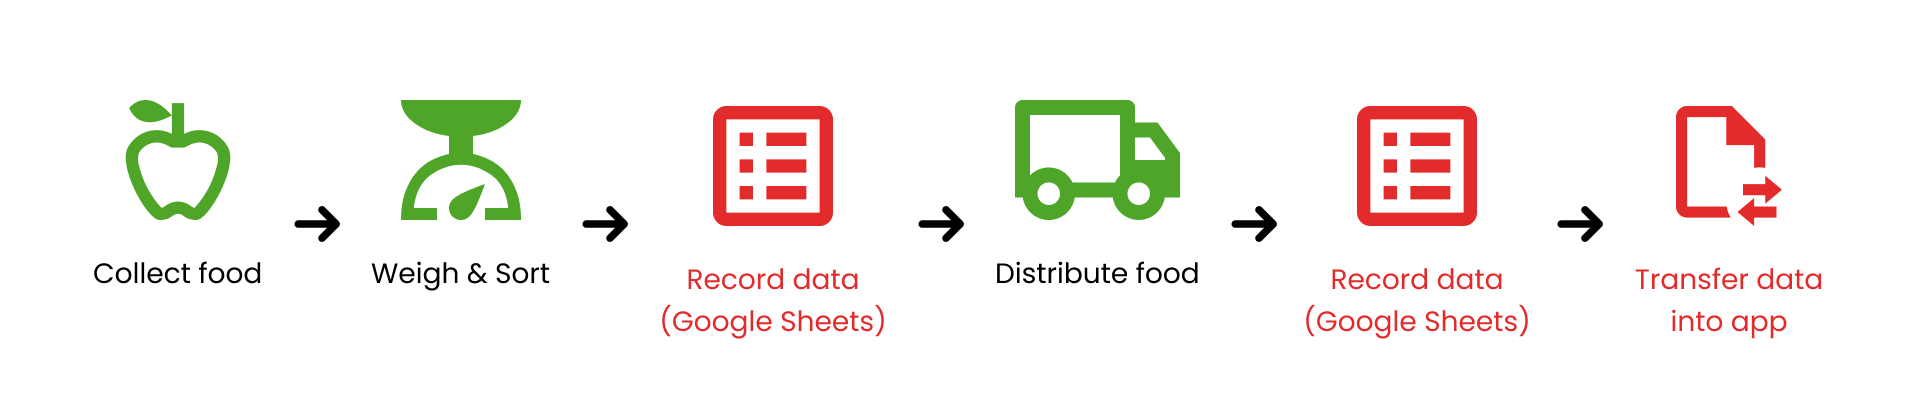
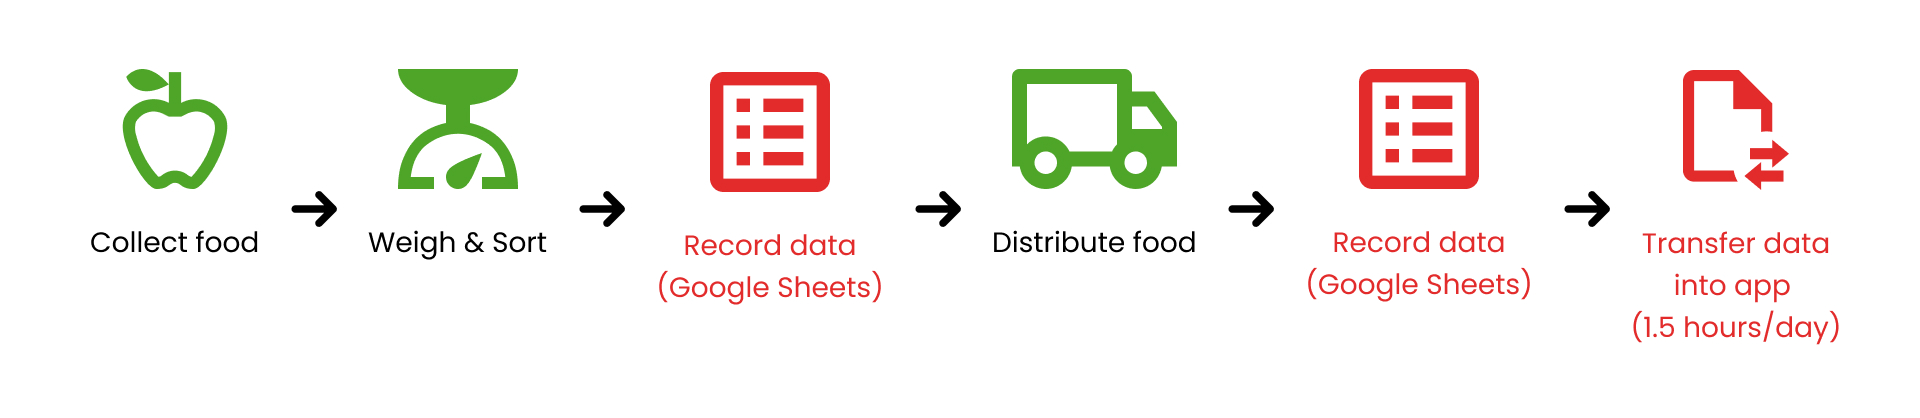
fix SE case study

diff --git a/project-sharing-excess.html b/project-sharing-excess.html
@@ -61,7 +61,7 @@
                     addressing the issue of food insecurity in the United States - to streamline their 
                     process of working with input and output data in the warehouse, which significantly shortened 
                     the process, minimized human errors, and increased workers' productivity. </p>
-                <div id="prj-summary">
+                <div class="prj-summary">
                     <div>
                         <h3> Project </h3>
                         <p> Internship </p>
@@ -72,11 +72,34 @@
                     </div>
                     <div>
                         <h3> My role </h3>
-                        <p> UX Designer <br> UX Researcher </p>
+                        <p class="margin-bot-05">UX Designer: Ideate design solutions</p>
+                        <p>UX Researcher: Build research plan, Conduct usability tests</p>
                     </div>
                     <div>
                         <h3> Team </h3>
                         <p> Quinn - UX Designer <br> Shash - Developer <br> Victoria - Product Manager</p>
+                    </div>
+                </div>
+                <hr>
+                <div>
+                    <h3 class="intro-impact"> Impact </h3>
+                    <div class="prj-summary top-impact">
+                        <div class="intro-impact">
+                            <p class="big-number intro-impact"><span class="cross-text"> 1.5 hours</span> <br>&rArr; 0 hour</p>
+                            <p class="impact-text"> of transfering data between 2 platforms. </p>
+                        </div>
+                        <div class="intro-impact">
+                            <p class="big-number intro-impact"><span class="cross-text"> 1-2 minutes</span><br> &rArr; 30 seconds</p>
+                            <p class="impact-text"> of creating one Entry/Allocation form. </p>
+                        </div>
+                        <div class="intro-impact">
+                            <p class="big-number intro-impact"> 75%</p>
+                            <p class="impact-text"> reduction of human error and data inaccuracy.</p>
+                        </div>
+                        <div class="intro-impact">
+                            <p class="big-number intro-impact"> 60%</p>
+                            <p class="impact-text"> reduction of food waste inside the warehouse. </p>
+                        </div>
                     </div>
                 </div>
                 <figure>
@@ -160,11 +183,6 @@
                     <img class="width100" src="portfolio-assets/case-study-se-app/artifacts/current-user-process-updated.jpg" title="Workers' original work process" alt="Workers' original work process">
                     <figcaption> Workers' original work process</figcaption>
                 </figure>
-                <p class="margin-top-4rem"> In an ideal world, Tate - one of the main Food Sourcing Associates - hoped to get rid of 1.5 mind-numbing hours of moving data between 2 platforms, and use the SE app right in the warehouse. </p>
-                <figure>
-                    <img class="width100" src="portfolio-assets/case-study-se-app/artifacts/ideal-user-process-updated.jpg" title="Workers' ideal work process" alt="Workers' ideal work process">
-                    <figcaption> Workers' ideal work process</figcaption>
-                </figure>
             </div>
 
             <div class="callout se-callout">
@@ -175,8 +193,8 @@
             </div>
                 
             <div>
-                <h2><span class="sub-heading"> USER RESEARCH</span> <br> Listen to the Users' honest Thoughts</h2>
-                <p> I set up a <strong>Focus Group and UX Workshop</strong> with the 3 workers to have a more in-depth conversation with them and understand their needs and goals. Some of the interactive activities include: </p>
+                <h2><span class="sub-heading"> DESIGN EXPLORATION</span> <br> Users are Contributors to the Design Process</h2>
+                <p> I set up a <strong>Focus Group and UX Workshop</strong> with the 3 workers to have a more in-depth conversation with them and understand their needs and expectations on the end product. Some of the interactive activities include: </p>
                 <ul>
                     <li> List every problem with the work process and the app, and order them in terms of priority and urgency</li>
                     <li> Compare the pros and cons of SE app and Google Sheets </li>
@@ -193,19 +211,20 @@
                     <img class="imgModal" src="portfolio-assets/case-study-se-app/artifacts/persona.jpg" alt="Persona of a typical Food Sourcing Associate at Sharing Excess - Tate">
                     <figcaption> Persona of a typical Food Sourcing Associate at Sharing Excess - Tate </figcaption>
                 </figure>
-                <p class="margin-top-4rem"> Their insights and suggestions helped me define the questions I need to answer and gave me a direction to move forward in the design.</p>
+                <!-- <p class="margin-top-4rem"> Their insights and suggestions helped me define the questions I need to 
+                    answer and gave me a direction to move forward in the design.</p> -->
             </div>
 
             <div class="callout se-callout margin-top-4rem">
                 <div class="callout-text">
                     <h2> "How Might We..."</h2>
-                    <p class="callout-leftalign"> How might we make the flow of SE app <strong><em>replicate the real-time process</em></strong> and <strong><em>implement advantageous features</em></strong> of Google Sheets into the app, in order to streamline the Food Sourcing process?</p>
+                    <p class="callout-leftalign"> How might we make the flow of SE app <strong><em>replicate the real-time process</em></strong> and <strong><em>implement advantages</em></strong> of Google Sheets into the app, in order to streamline the Food Sourcing process?</p>
                     <img id="se-icon" src="portfolio-assets/case-study-se-app/pic-howmightwe.png" alt="Illustration of the problem statement">
                 </div>
             </div>
 
             <div>
-                <h2> <span class="sub-heading"> PROCESS</span> <br> Overview of Design Iterations </h2>
+                <h2> <span class="sub-heading"> DESIGN PROCESS</span> <br> Overview of Design Iterations </h2>
                 <img class="width100" src="portfolio-assets/case-study-se-app/artifacts/design-process.jpg" alt="Overview of design process">
                 <!-- <p> The workers' Food Sourcing process was complicated, and <strong>our design process wasn't linear</strong> either. 
                     Sometimes one problem was solved but then another one arose.</p>
@@ -309,6 +328,14 @@
                         <p class="impact-text"> <strong>reduction of food waste.</strong> Workers are reminded to distribute food in a timely manner. </p>
                     </div>
                 </div>
+                <figure>
+                    <img class="width100" src="portfolio-assets/case-study-se-app/artifacts/current-user-process-updated.jpg" title="Workers' original work process" alt="Workers' original work process">
+                    <figcaption> Workers' process <strong>before</strong> the app was redesigned</figcaption>
+                </figure>
+                <figure>
+                    <img class="width100 margin-top-4rem" src="portfolio-assets/case-study-se-app/artifacts/ideal-user-process-updated.jpg" title="Workers' ideal work process" alt="Workers' ideal work process">
+                    <figcaption> Workers' process <strong>after</strong> the app was redesigned</figcaption>
+                </figure>
             </div>
 
             <div>

diff --git a/styles.css b/styles.css
@@ -383,28 +383,32 @@ footer {
     margin-top: 1.5rem;
 }
 
-figcaption, #prj-summary {
+figcaption {
     max-width: 50rem;
 }
 
-#prj-summary {
+.prj-summary {
     display: flex;
     flex-wrap: wrap;
     column-gap: 1rem;
     margin: auto;
 }
 
-#prj-summary > div {
+.prj-summary > div {
     width: 45%;
 }
 
-#prj-summary h3 {
+.prj-summary h3 {
     margin-bottom: .5rem;
     text-align: left;
 }
 
-#prj-summary p {
+.prj-summary p {
     margin-top: 0;
+}
+
+.margin-bot-05 {
+    margin-bottom: .5rem;
 }
 
 iframe {
@@ -459,6 +463,23 @@ p.big-number {
     font-size: 180%;
     font-weight: bold;
     margin-bottom: .5rem;
+}
+
+p.intro-impact {
+    font-size: 120%;
+}
+
+div.intro-impact {
+    margin: 1rem 0;
+}
+
+h3.intro-impact {
+    margin: 1rem 0 .5rem 0;
+}
+
+div.top-impact {
+    column-gap: 4rem;
+    flex-wrap: nowrap;
 }
 
 span.cross-text {
@@ -846,10 +867,10 @@ input[type=text], #message {
     }
 
     /* All pages */
-    #prj-summary {
+    .prj-summary {
         justify-content: space-between;
     }
-    #prj-summary > div {
+    .prj-summary > div {
         width: fit-content;
         max-width: 220px;
     }
@@ -1047,7 +1068,7 @@ input[type=text], #message {
     img.hero-img {
         margin-top: -2rem;
     }
-    div.margin-top-4rem, p.margin-top-4rem, h3.margin-top-4rem {
+    div.margin-top-4rem, p.margin-top-4rem, h3.margin-top-4rem, img.margin-top-4rem {
         margin-top: 4rem;
     }
     div.callout-text {
